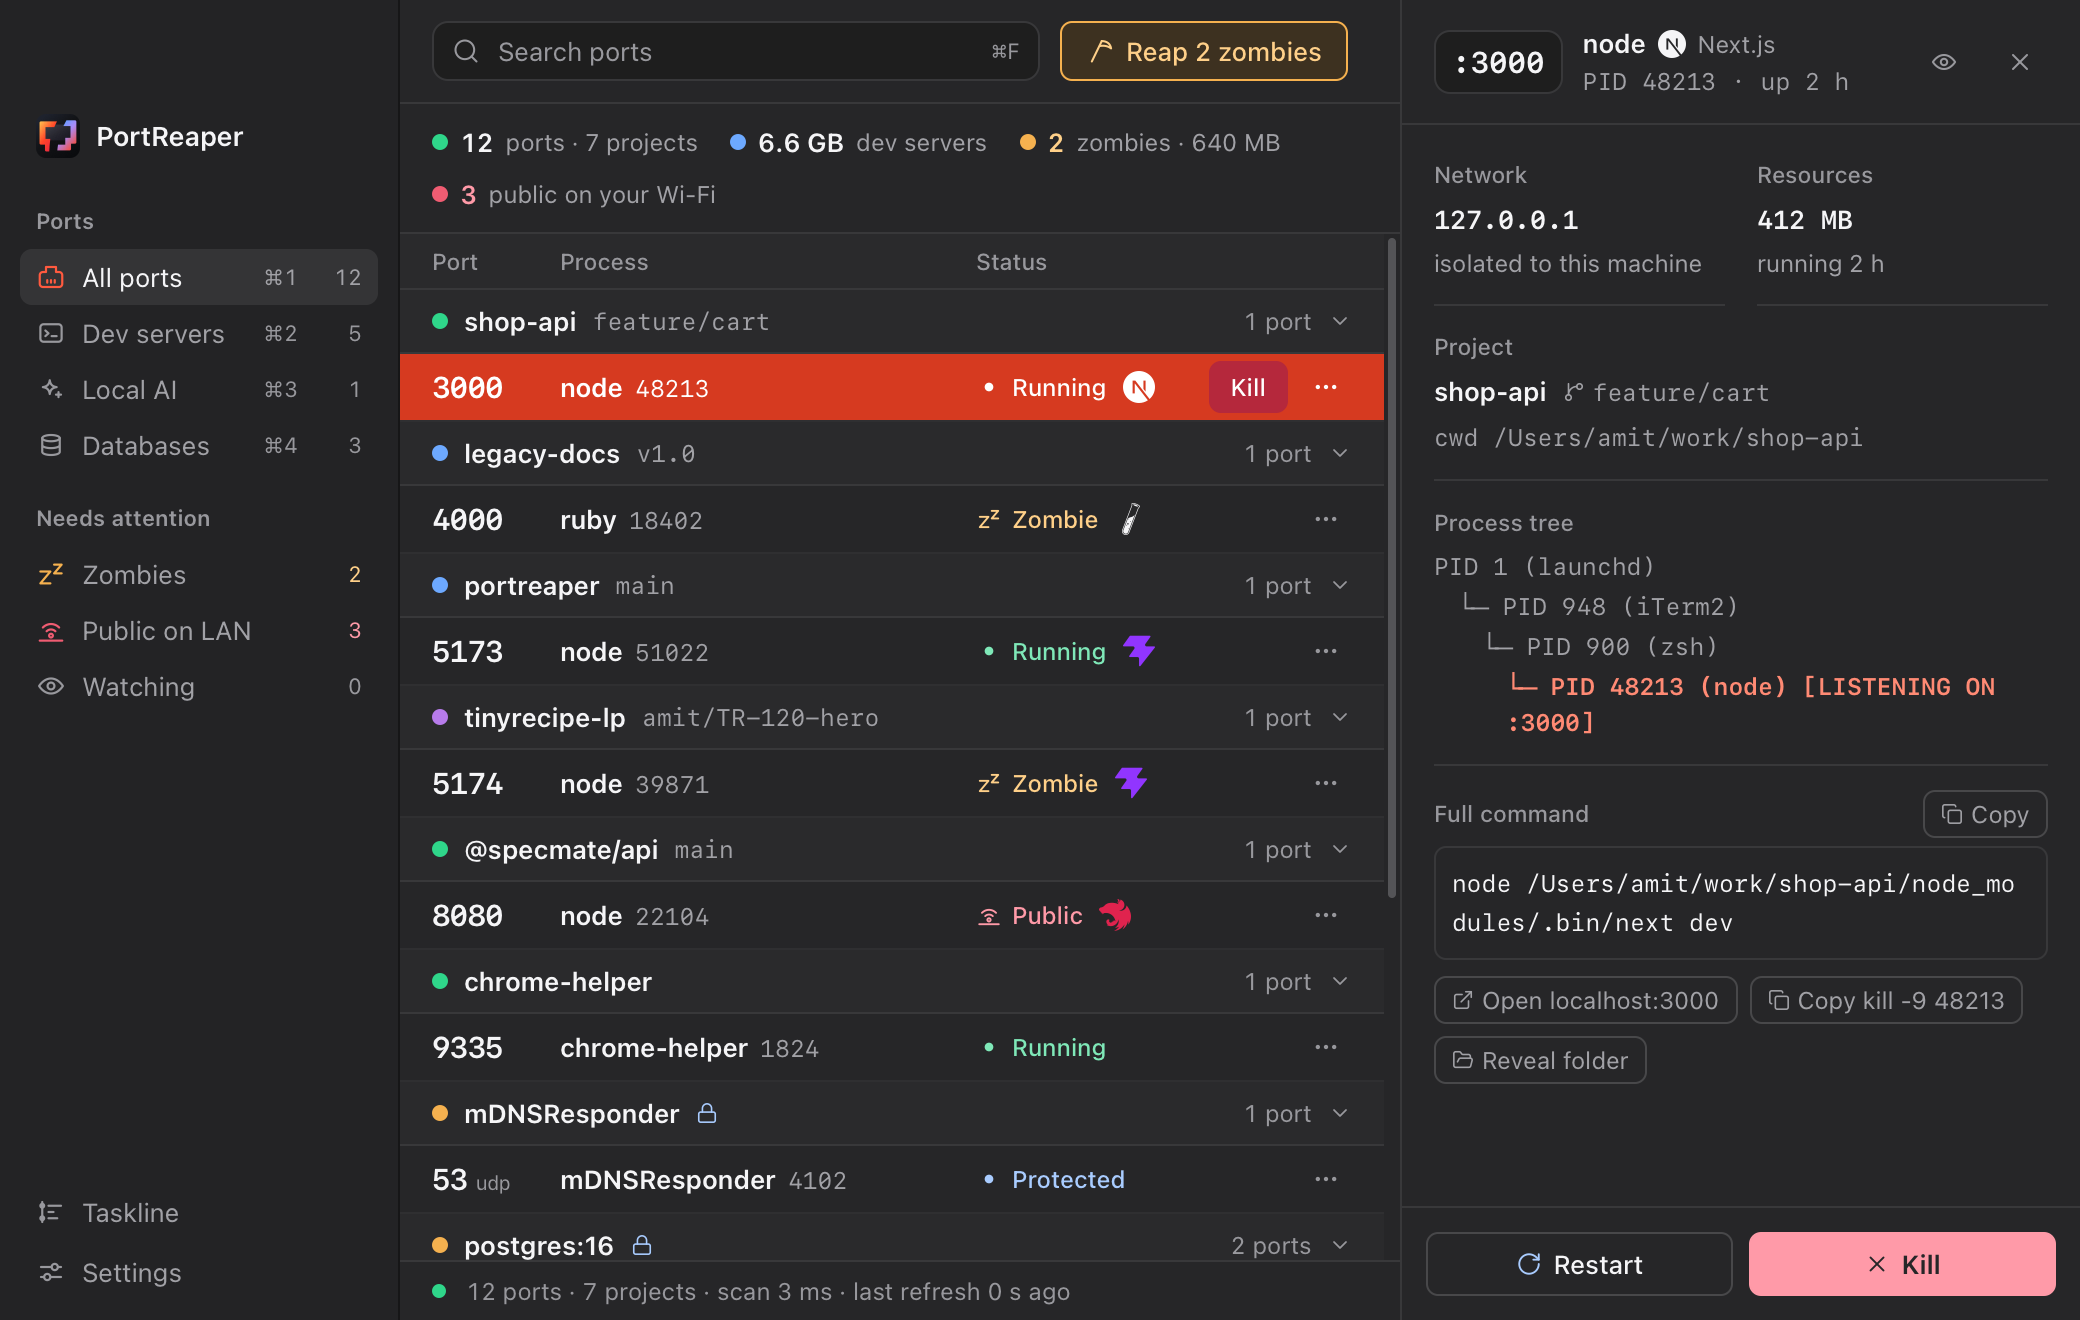
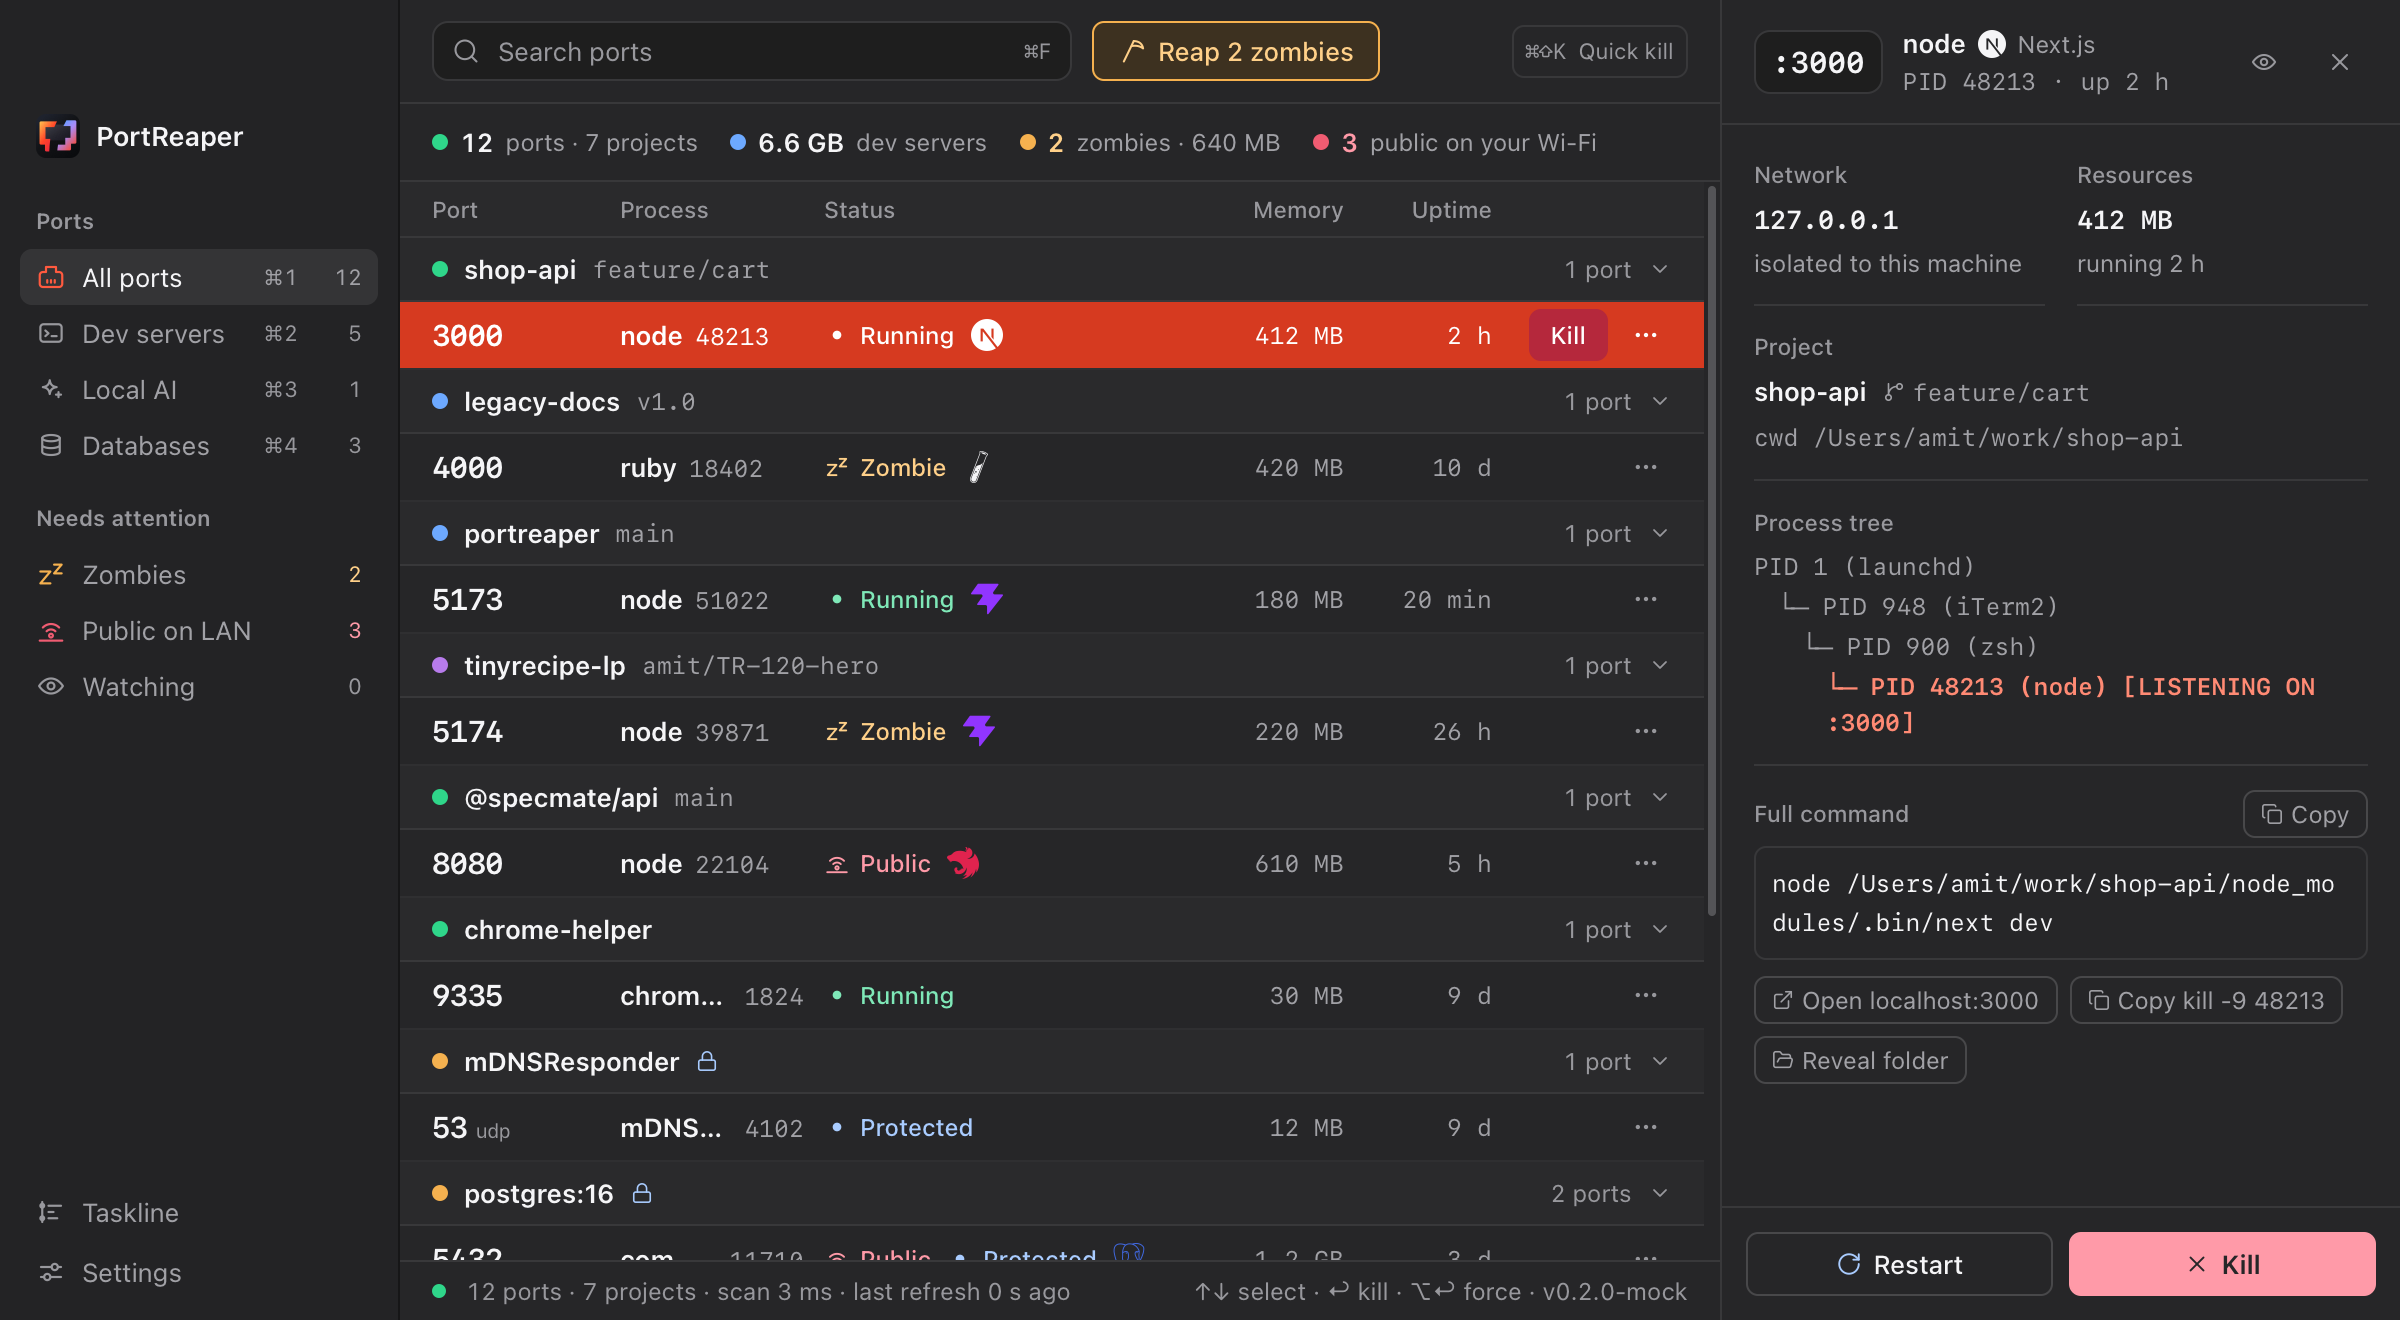
docs: shoot the Board at 1200 px so the summary line stays on one row
With the inspector open the summary line needs 1160 px; at the window's
default 1040 its last item drops to a second row alone.

Claude-Session: https://claude.ai/code/session_016JNER95oGTDczKoxsPSCuw

diff --git a/e2e/screenshot.spec.ts b/e2e/screenshot.spec.ts
@@ -3,13 +3,15 @@ import { inspector, open, row } from "./helpers";
 
 /**
  * Not part of `pnpm e2e`: only the `screenshot` project runs this file (`pnpm screenshot`), on
- * WebKit at 2×, which is what the Tauri window is on a retina Mac. Mock data, at the window's
- * default size (tauri.conf.json: 1040×660 since WP-19). The Board follows the system scheme:
+ * WebKit at 2×, which is what the Tauri window is on a retina Mac. Mock data. The Board is shot at
+ * 1200×660, wider than the window's default (tauri.conf.json: 1040×660 since WP-19): with the
+ * inspector open the summary line needs 1160 px to stay on one row, and at 1040 its last item,
+ * "public on your Wi-Fi", drops to a second row alone. The Board follows the system scheme:
  * `screenshot.png` is the Studio in light with the inspector open on :3000, `screenshot-dark.png`
  * the same window in dark.
  */
 test.describe("the Board", () => {
-  test.use({ viewport: { width: 1040, height: 660 } });
+  test.use({ viewport: { width: 1200, height: 660 } });
 
   const boardShots = [
     { scheme: "light", path: "docs/screenshot.png" },

diff --git a/README.md b/README.md
@@ -42,7 +42,7 @@ query, hides the strip.
 
 ![PortReaper: twelve listening ports grouped by project, the first one selected](docs/screenshot.png)
 
-*Mock data, from the browser build (`pnpm dev`), 1040×660. Regenerate with `pnpm screenshot`;
+*Mock data, from the browser build (`pnpm dev`), 1200×660. Regenerate with `pnpm screenshot`;
 `docs/screenshot-dark.png` is the same window in dark; `docs/screenshot-quick.png` is the ⌘⇧K strip.*
 
 - **Every listening port, classified.** TCP and UDP, IPv4 and IPv6 merged, each with the process
